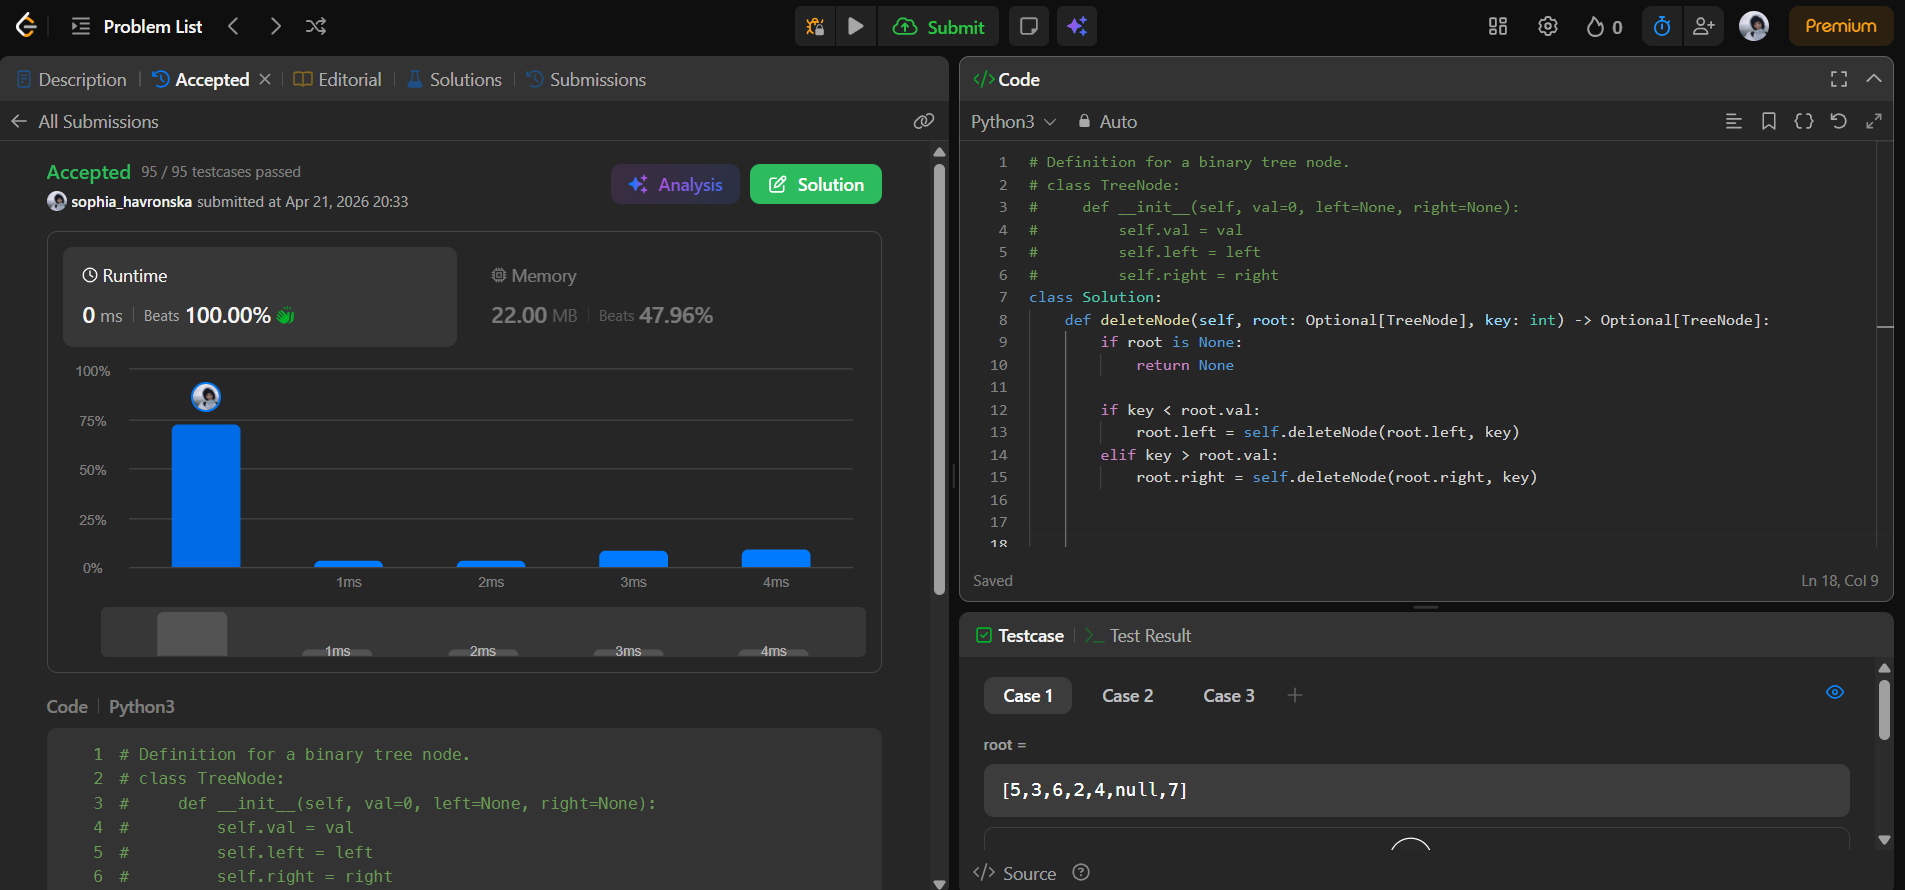
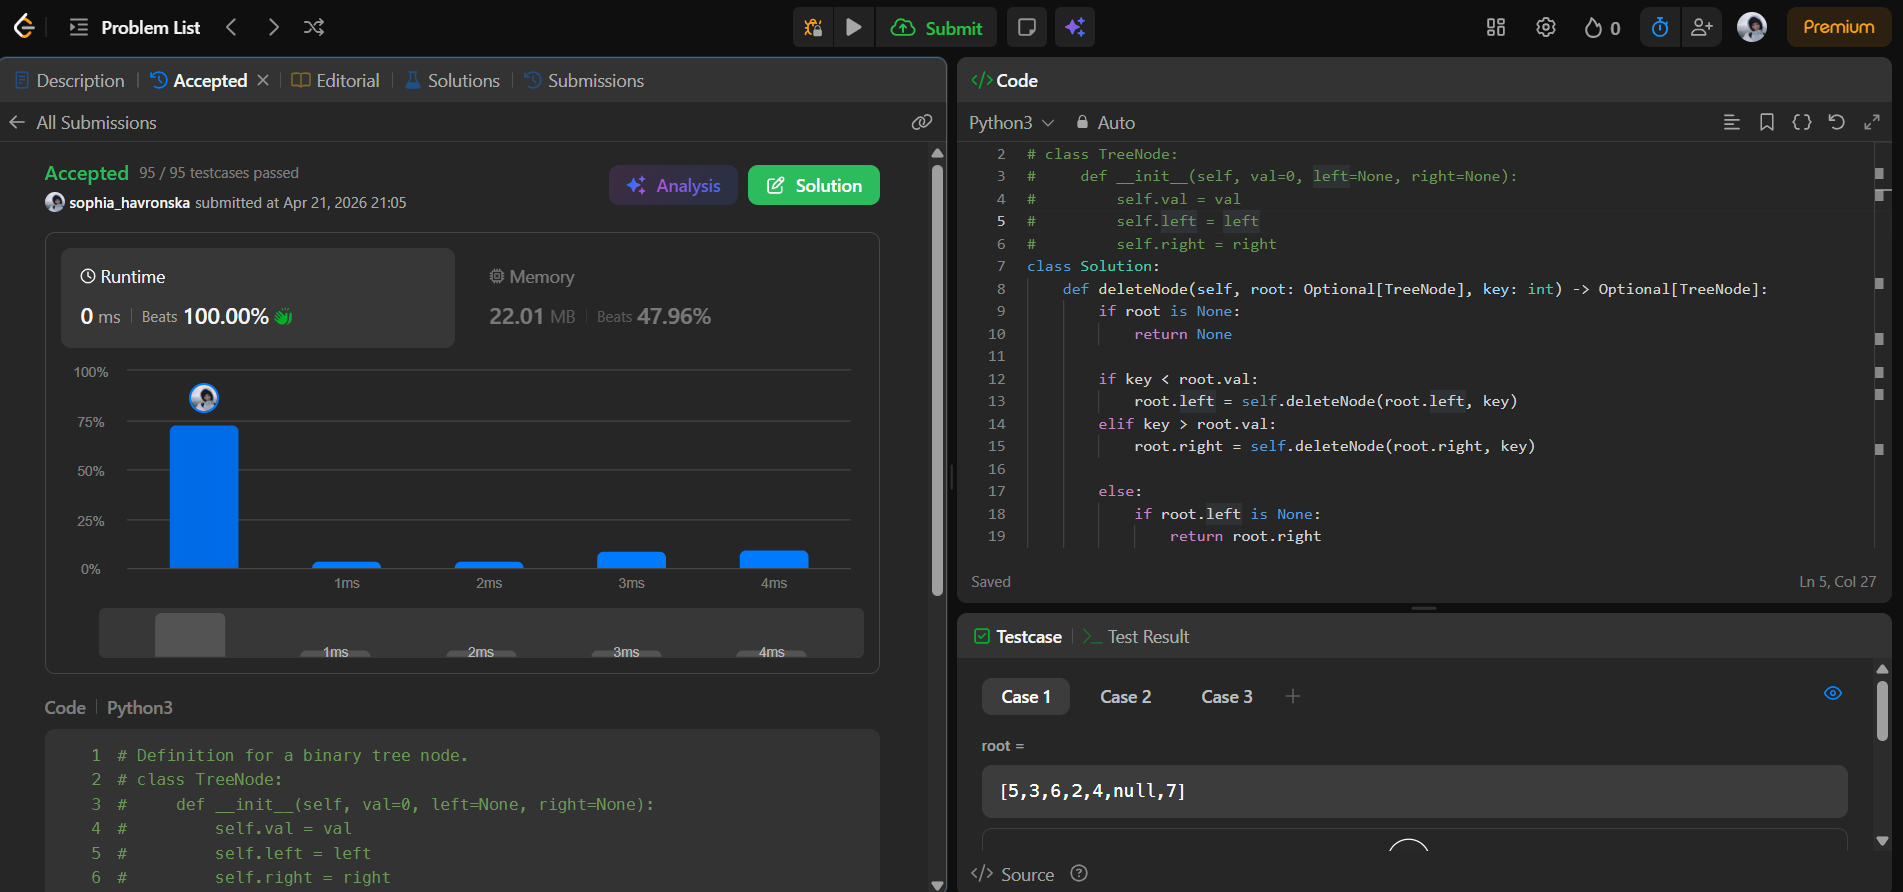
Commiting solution to Delete Node in a BST

diff --git a/Delete Node in a BST/solution to the task.py b/Delete Node in a BST/solution to the task.py
@@ -13,19 +13,18 @@ class Solution:
         if key < root.val:
             root.left = self.deleteNode(root.left, key)
         elif key > root.val:
-            
             root.right = self.deleteNode(root.right, key)
+
         else:
             if root.left is None:
                 return root.right
-
             elif root.right is None:
                 return root.left
 
-            current = root.right
-            while current.left is not None:
-                current = current.left
+            current = root.left
+            while current.right:
+                current = current.right
 
             root.val = current.val
-            root.right = self.deleteNode(root.right, root.val)
+            root.left = self.deleteNode(root.left, root.val)
         return root
